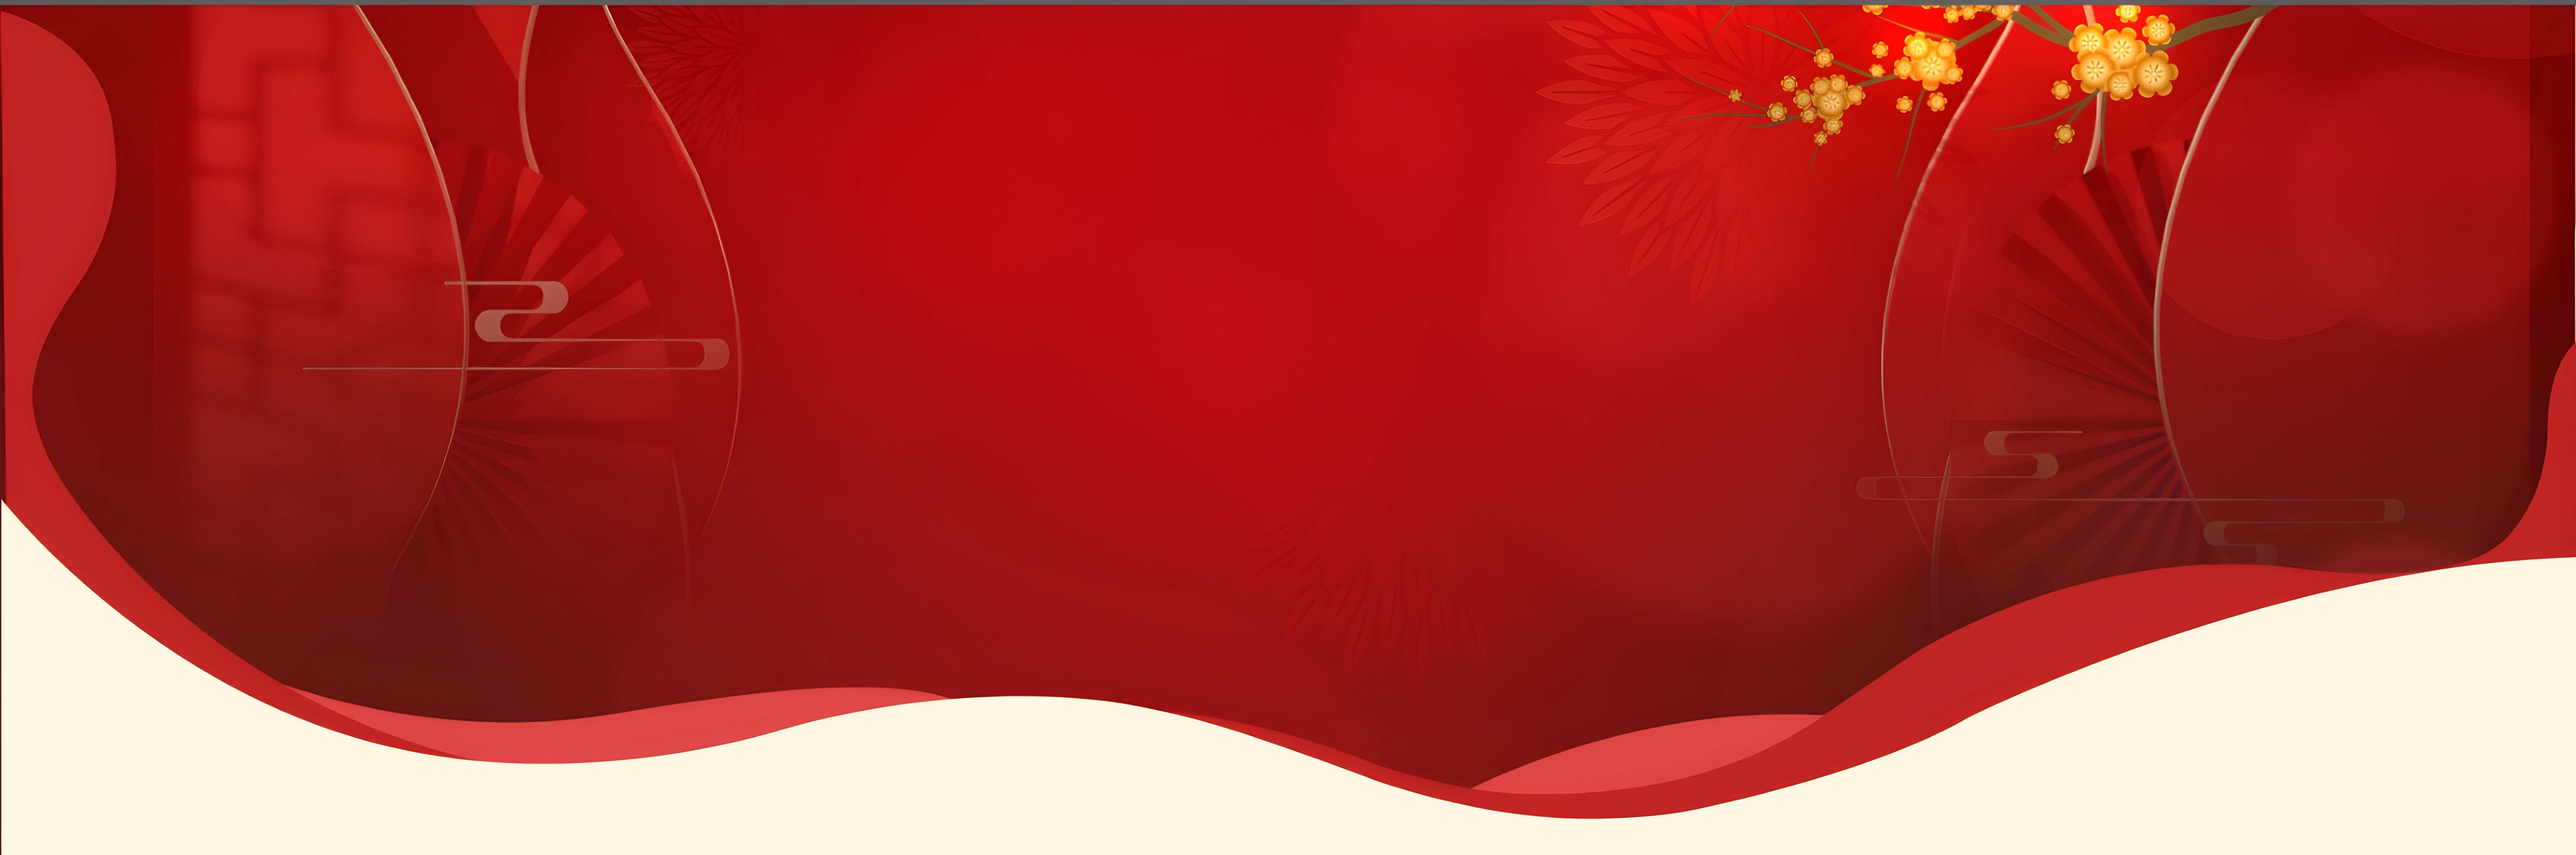
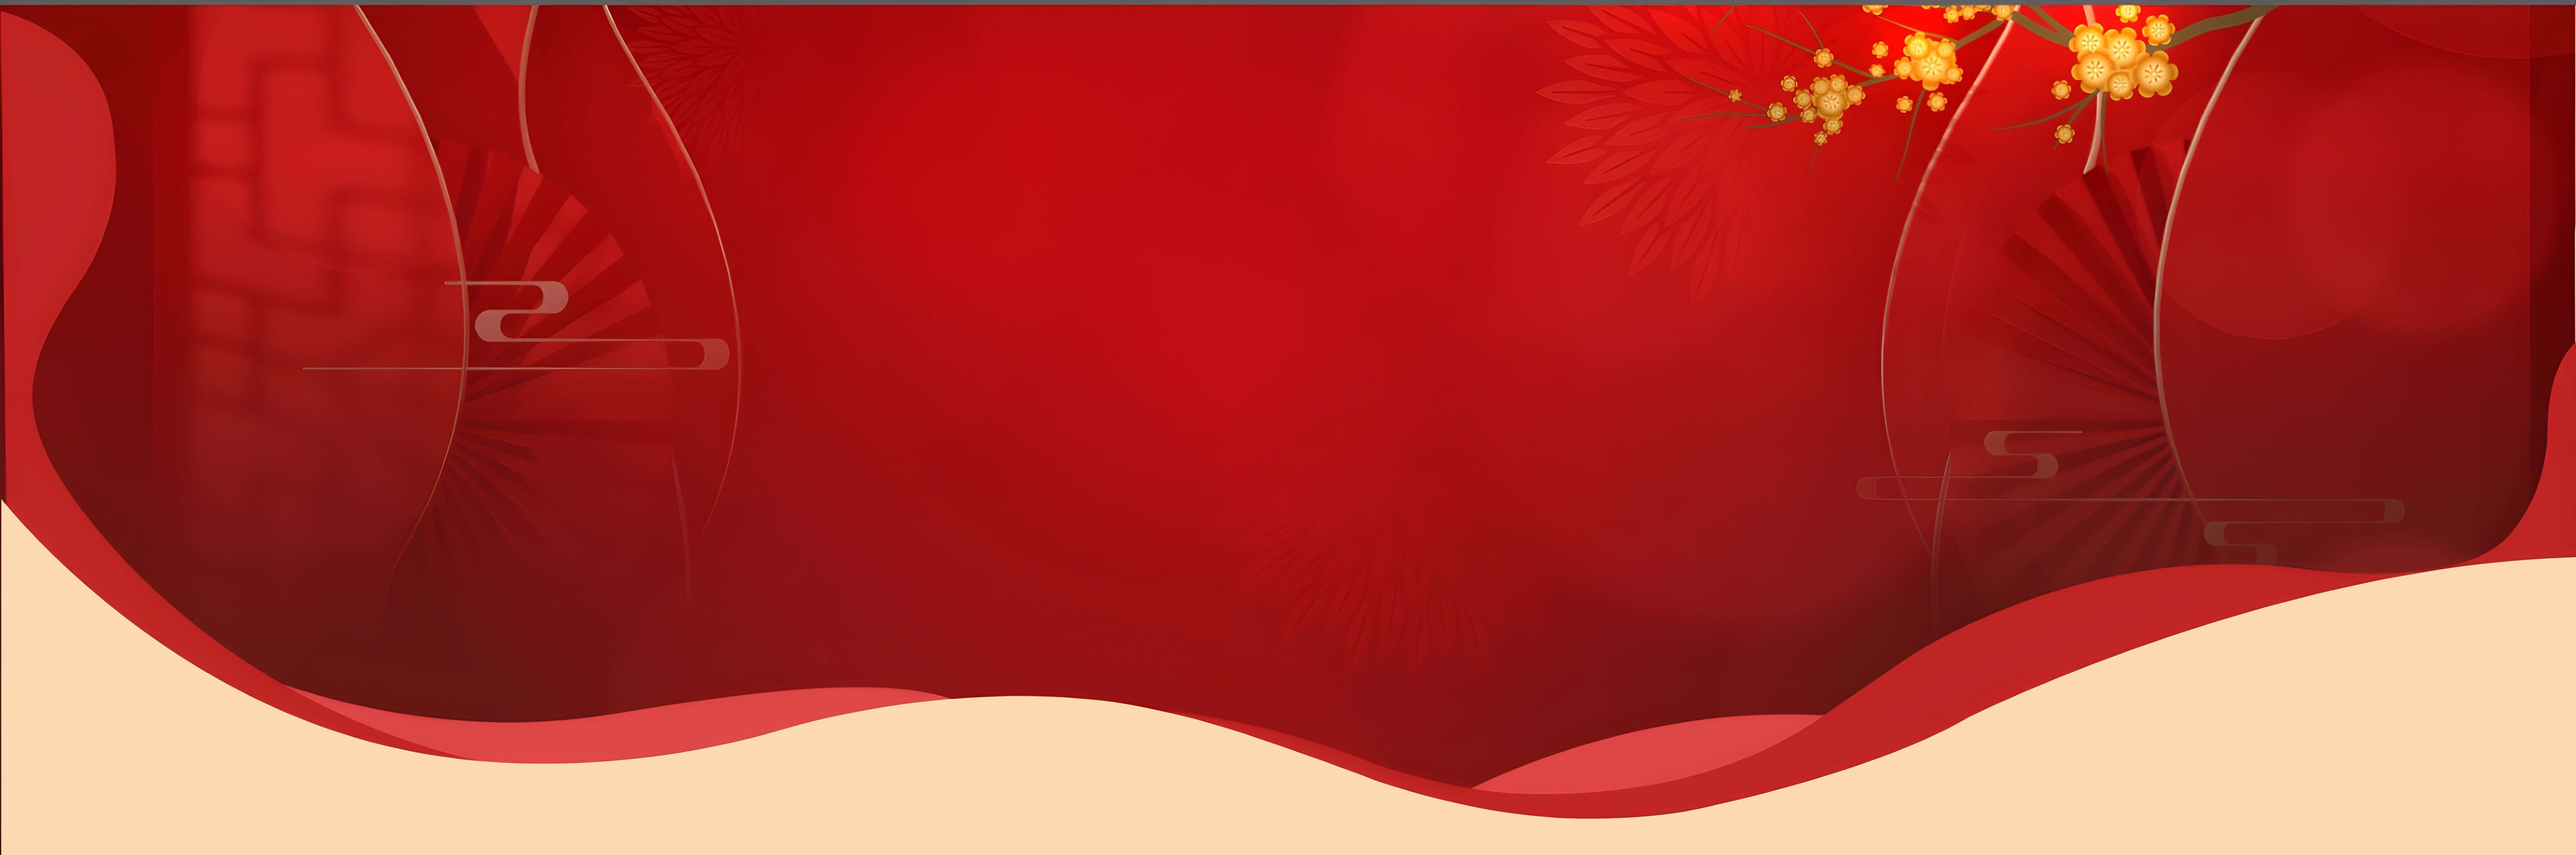
Update background color to #fbd8b0 for consistent theme across all sections and mobile/desktop views

Changed region(s): [[0.0, 0.5938, 1.0, 1.0]]

diff --git a/app/home3/page.tsx b/app/home3/page.tsx
@@ -30,9 +30,9 @@ export default function Home3Page() {
   const [chatIdx, setChatIdx] = useState(0);
 
   return (
-          <div className="w-full min-h-screen bg-[#FFF6E5] flex flex-col">
+          <div className="w-full min-h-screen bg-[#fbd8b0] flex flex-col">
       {/* Hero Banner - Desktop & Mobile Optimized */}
-      <section className="relative w-full bg-[#a10000] overflow-hidden" style={{ minHeight: '600px' }}>
+      <section className="relative w-full bg-[#a10000] overflow-hidden lg:bg-[#a10000] bg-gradient-to-b from-[#a10000] to-[#fbd8b0]" style={{ minHeight: '600px' }}>
         {/* Background Image - Desktop */}
         <Image
           src="/images/bg_banner_top.jpg"
@@ -115,88 +115,85 @@ export default function Home3Page() {
           </div>
         </div>
         
-        {/* Mobile Layout (Fixed) */}
-        <div className="lg:hidden relative z-10 flex flex-col items-center justify-start px-4 pt-8 pb-6" style={{ minHeight: 'calc(100vh - 80px)', alignItems: 'center' }}>
-          
-
-          
-
-          
+        {/* Mobile Layout (Fluid Responsive) */}
+        <div className="lg:hidden relative z-10 flex flex-col items-center justify-start px-[2vw] pt-[3vh] pb-[2vh]" style={{ minHeight: 'calc(100vh - 80px)', alignItems: 'center' }}>
           {/* Product Image Section - Mobile Only - Centered and Larger */}
-          <div className="relative w-full max-w-[300px] sm:max-w-[350px] mb-6">
+          <div className="relative w-full max-w-[90vw] mb-[4vh]" style={{height: 'clamp(180px, 38vw, 320px)'}}>
             <Image 
               src="/images/yen_banner_1.png" 
               alt="Yến Sào Kim Sang" 
-              width={550} 
-              height={550} 
-              className="object-contain w-full h-auto drop-shadow-2xl" 
+              fill
+              className="object-contain w-full h-full drop-shadow-2xl" 
+              sizes="90vw"
+              priority
             />
-            
             {/* Decor at top left of product image */}
-            <div className="absolute -top-2 -left-2 z-20 w-18 sm:w-22 animate-decor-slide drop-shadow-2xl">
-              <Image src="/images/banner_decor_2.png" alt="Decor" width={116} height={116} className="object-contain w-full h-auto" />
+            <div className="absolute -top-[3vw] left-[2vw] z-20 w-[15.6vw] min-w-[48px] max-w-[84px] animate-decor-slide drop-shadow-2xl">
+              <Image src="/images/banner_decor_2.png" alt="Decor" width={72} height={72} className="object-contain w-full h-auto" />
             </div>
-            
-
           </div>
-          
           {/* Content Section - Mobile Only - Centered */}
-          <div className="flex flex-col items-center text-white text-center max-w-[320px] sm:max-w-[350px] px-2 mt-8">
-            <h1 className="text-glossy text-3xl sm:text-4xl font-black italic" 
+          <div className="flex flex-col items-center text-white text-center w-full max-w-[96vw] px-[1vw] mt-[4vh]">
+            <h1 className="text-glossy font-black italic" 
                 style={{
                   fontWeight: 900, 
                   fontStyle: 'italic', 
                   fontFamily: 'Inter, sans-serif', 
-                  fontSize: 'clamp(2rem, 6.5vw, 3.5rem)',
+                  fontSize: 'clamp(2.2rem, 8.5vw, 3.2rem)',
                   lineHeight: 1.1,
-                  padding: '10px'
+                  padding: 'clamp(0.3em, 2vw, 0.7em) 0',
+                  marginBottom: 'clamp(0.2em, 1.5vw, 0.5em)'
                 }}>
               <span className="block">TỔ YẾN SÀO</span>
               <span className="block">NGUYÊN CHẤT</span>
             </h1>
-            
-            <p className="text-base sm:text-lg mb-5 font-medium italic" 
-               style={{fontFamily:'Inter, sans-serif', fontWeight:500, color:'#fff'}}>
+            <p className="font-medium italic" 
+               style={{
+                 fontFamily:'Inter, sans-serif', 
+                 fontWeight:500, 
+                 color:'#fff',
+                 fontSize: 'clamp(1.2rem, 4.5vw, 1.6rem)',
+                 marginBottom: 'clamp(0.5em, 2vw, 1em)'
+               }}>
               Cho sức khỏe gia đình bạn
             </p>
-            
             {/* Shipping Info Box */}
-            <div className="relative mb-5 drop-shadow-2xl">
-              <div className="relative bg-[#a10000] rounded-[16px] px-4 sm:px-5 py-3 sm:py-4 border-2 border-[#F0B000] min-w-[280px] sm:min-w-[300px]">
-                <div className="font-bold text-white text-sm sm:text-base" style={{lineHeight: 1.2}}>
+            <div className="relative mb-[2vh] drop-shadow-2xl w-full flex justify-center">
+              <div className="relative bg-[#a10000] rounded-[1.2em] px-[3vw] py-[2vw] border-2 border-[#F0B000] min-w-[65vw] max-w-[95vw]" style={{boxSizing:'border-box'}}>
+                <div className="font-bold text-white" style={{lineHeight: 1.2, fontSize: 'clamp(1.1rem, 4.2vw, 1.4rem)'}}>
                   Giao hàng <span className="text-yellow-300">MIỄN PHÍ</span>
                 </div>
-                <div className="text-white text-xs sm:text-sm mt-1">
+                <div className="text-white" style={{fontSize: 'clamp(0.95rem, 3.5vw, 1.2rem)', marginTop: '0.3em'}}>
                   Đơn hàng từ 1.000.000đ trở lên
                 </div>
-                
-
               </div>
             </div>
-            
-            {/* CTA Button */}
-            <a href="/products" 
-               className="inline-block bg-glossy text-red-900 font-bold px-6 sm:px-8 py-3 sm:py-4 rounded-full shadow-2xl transition-all duration-200 transform hover:scale-110 hover:shadow-3xl animate-button-zoom button-glow text-base sm:text-lg mt-8" 
-               style={{boxShadow: '0 25px 50px -12px rgba(0, 0, 0, 0.6)'}}>
-              ĐẶT MUA NGAY
-            </a>
-            
-            {/* Decor below button */}
-            <div className="mt-4 ml-32 z-20 w-16 sm:w-20 animate-decor-slide drop-shadow-2xl">
-              <Image src="/images/banner_decor_1.png" alt="Decor" width={192} height={192} className="object-contain w-full h-auto" />
+            {/* CTA Button and Decor Row */}
+            <div className="flex flex-row items-center justify-center w-full max-w-[96vw] mt-[6vh] gap-[1.5vw] relative">
+              {/* Button - center */}
+              <a href="/products" 
+                 className="inline-block bg-glossy text-red-900 font-bold rounded-full shadow-2xl transition-all duration-200 transform hover:scale-110 hover:shadow-3xl animate-button-zoom button-glow"
+                 style={{
+                   fontSize: 'clamp(1rem, 4vw, 1.3rem)',
+                   padding: 'clamp(0.7em, 3vw, 1.2em) clamp(2.2em, 7vw, 3em)',
+                   margin: 0,
+                   marginTop: '-2vh',
+                   boxShadow: '0 25px 50px -12px rgba(0, 0, 0, 0.6)'
+                 }}>
+                ĐẶT MUA NGAY
+              </a>
             </div>
-            
-            {/* EN image below button - left side */}
-            <div className="-mt-6 -ml-68 z-20 w-17 sm:w-20 drop-shadow-2xl">
-              <Image src="/images/en.png" alt="EN" width={202} height={202} className="object-contain w-full h-auto scale-x-[-1]" />
+            {/* Decor below button - left and right */}
+            <div className="flex justify-between items-center w-full mt-[0.5vh] px-[2vw]">
+              {/* EN image - left */}
+              <div className="relative" style={{width: 'clamp(57px, 19.5vw, 90px)', height: 'clamp(57px, 19.5vw, 90px)'}}>
+                <Image src="/images/en.png" alt="EN" fill className="object-contain w-full h-full scale-x-[-1] drop-shadow-2xl" />
+              </div>
+              {/* Decor - right */}
+              <div className="relative" style={{width: 'clamp(38px, 13vw, 60px)', height: 'clamp(38px, 13vw, 60px)'}}>
+                <Image src="/images/banner_decor_1.png" alt="Decor" fill className="object-contain w-full h-full animate-decor-slide drop-shadow-2xl" />
+              </div>
             </div>
-            
-
-          </div>
-          
-          {/* Bottom Right Decor */}
-          <div className="absolute bottom-2 right-4 z-20 w-12 sm:w-16 drop-shadow-2xl">
-            <Image src="/images/banner_decor_1.png" alt="Decor" width={64} height={64} className="object-contain w-full h-auto" />
           </div>
         </div>
         
@@ -318,7 +315,7 @@ export default function Home3Page() {
       </section>
 
       {/* Feature Icons Row */}
-      <section className="w-full bg-[#fff6e3] py-4 sm:py-6 flex flex-col items-center">
+      <section className="w-full bg-[#fbd8b0] py-4 sm:py-6 flex flex-col items-center">
         <div className="flex flex-wrap justify-center gap-4 sm:gap-8 px-4">
           {featureIcons.map((f, i) => (
             <div key={i} className="flex flex-col items-center min-w-[100px] sm:min-w-0">
@@ -330,17 +327,17 @@ export default function Home3Page() {
       </section>
 
       {/* Product Highlight */}
-      <section className="w-full bg-[#fff6e3] py-6 sm:py-8 flex flex-col items-center px-4">
+      <section className="w-full bg-[#fbd8b0] py-6 sm:py-8 flex flex-col items-center px-4">
         <h2 className="text-lg sm:text-xl md:text-2xl font-bold text-[#a10000] mb-3 sm:mb-4 text-center">TỔ YẾN NGUYÊN CHẤT</h2>
         <Image src="/images/to-yen-nguyen-chat.jpg" alt="Tổ Yến Nguyên Chất" width={600} height={300} className="rounded-xl shadow-lg mx-auto w-full max-w-[600px]" />
         <div className="mt-3 sm:mt-4 text-center text-[#a10000] font-semibold text-base sm:text-lg px-2">Tổ yến nguyên chất - Dinh dưỡng vượt trội</div>
       </section>
 
       {/* Testimonial/Slider Section */}
-      <section className="w-full bg-[#fff6e3] py-6 sm:py-8 flex flex-col items-center px-4">
+      <section className="w-full bg-[#fbd8b0] py-6 sm:py-8 flex flex-col items-center px-4">
         <h3 className="text-base sm:text-lg md:text-xl font-bold text-[#a10000] mb-3 sm:mb-4 text-center">Thịnh Vượng một cách trọn vẹn</h3>
         <div className="relative w-full max-w-xl mx-auto">
-          <div className="bg-white rounded-xl shadow p-4 sm:p-6 flex flex-col md:flex-row items-center gap-3 sm:gap-4">
+          <div className="bg-[#fbd8b0] rounded-xl shadow p-4 sm:p-6 flex flex-col md:flex-row items-center gap-3 sm:gap-4">
             <Image src="/images/p1.png" alt="Testimonial" width={120} height={120} className="rounded-xl object-cover w-16 h-16 sm:w-20 sm:h-20 md:w-24 md:h-24" />
             <div className="flex-1 text-[#a10000] text-sm sm:text-base md:text-lg font-medium text-center md:text-left">Sản phẩm yến sào Kim Sang mang lại may mắn và sức khỏe cho gia đình bạn!</div>
           </div>

diff --git a/app/globals.css b/app/globals.css
@@ -93,6 +93,7 @@ body {
   letter-spacing: 0;
   -webkit-font-smoothing: antialiased;
   -moz-osx-font-smoothing: grayscale;
+  background-color: #fbd8b0 !important;
 }
 
 /* Apply inter to all headings and UI elements */
